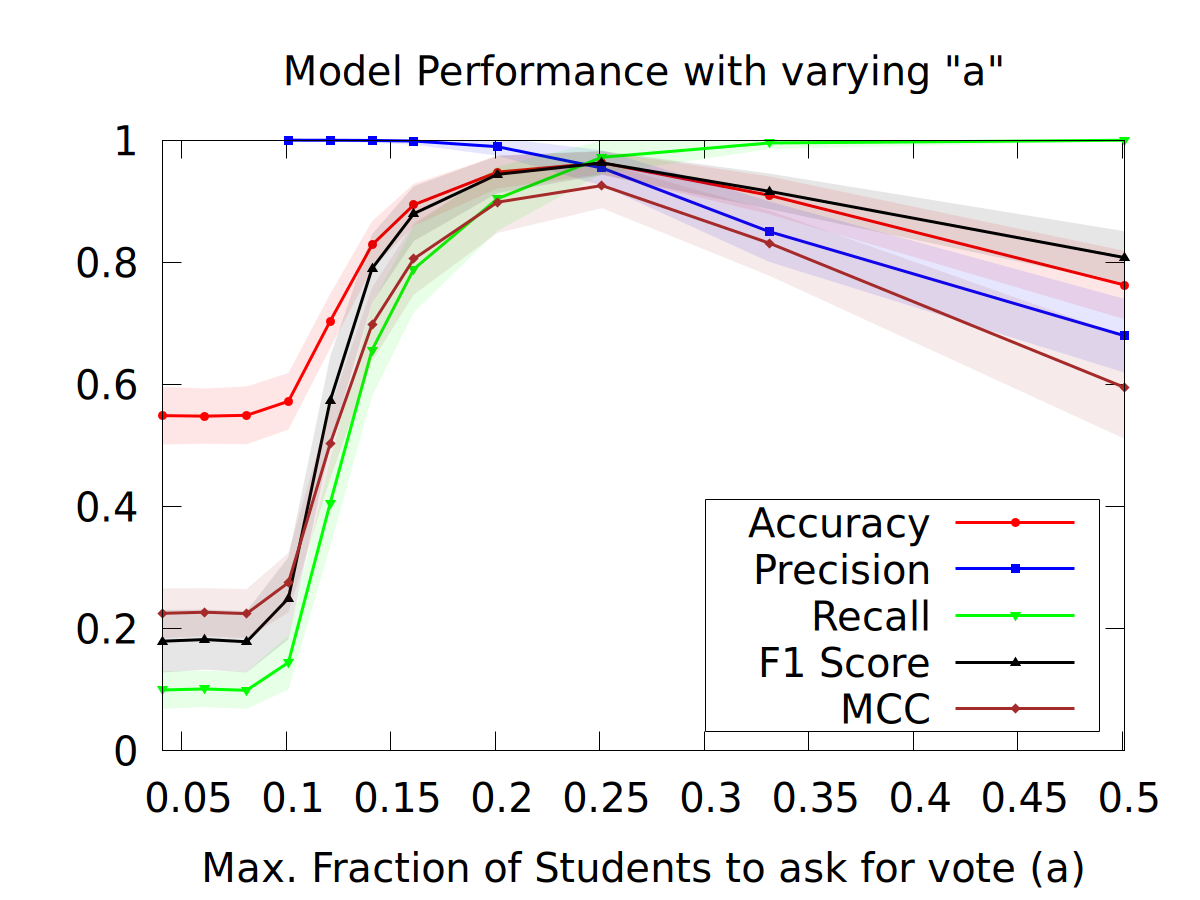
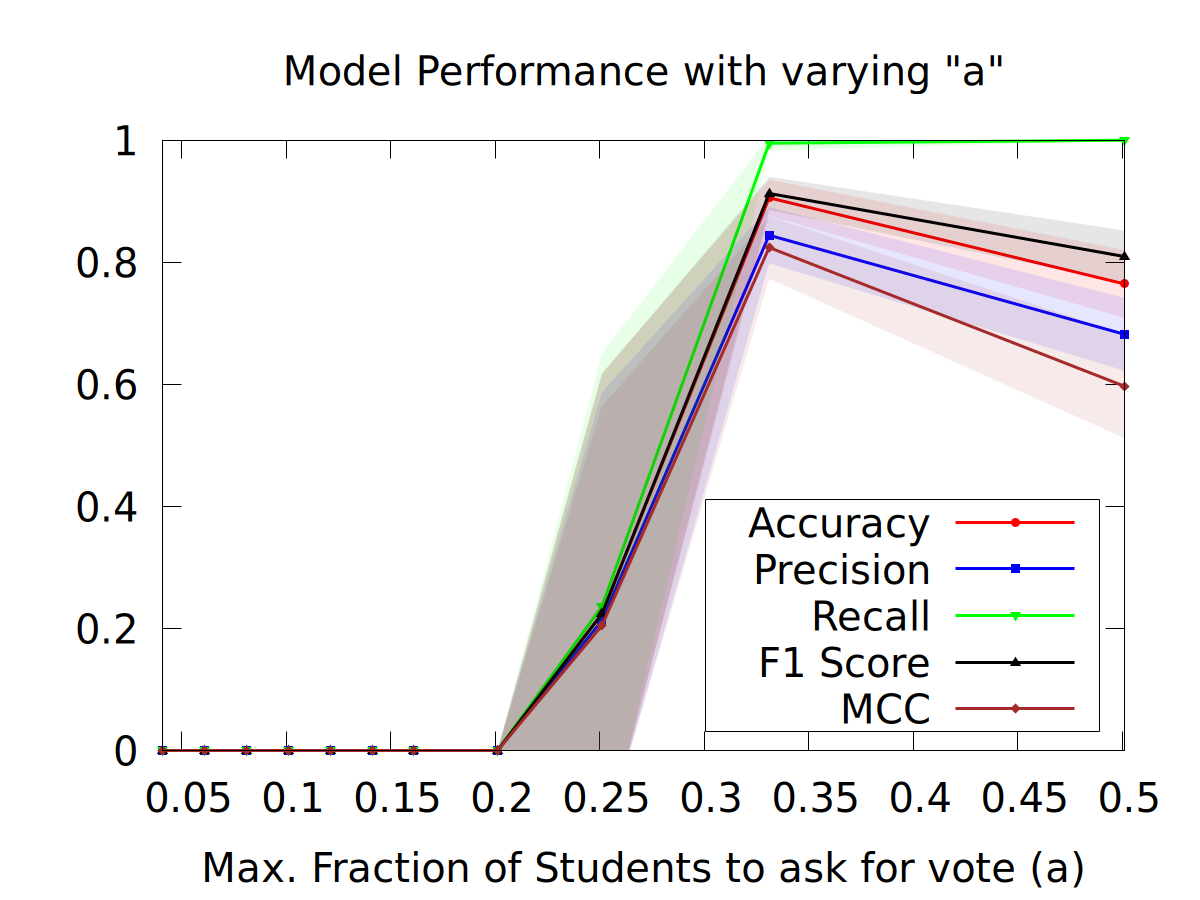
Adding controlled exp results

Changed region(s): [[0.1233, 0.1556, 0.8325, 0.84], [0.8942, 0.3422, 0.925, 0.3733], [0.8942, 0.28, 0.925, 0.3111]]

diff --git a/src/main.cpp b/src/main.cpp
@@ -85,7 +85,7 @@ inline Stats simulate(int n, int m, int k, int a, float p, float q, float r, int
 
     if (defaulters < d * n)
     {
-        std::cout << (float)defaulters / n << std::endl;
+        // std::cout << (float)defaulters / n << std::endl;
         return stats;
     }
     /****************************** Condition Check Finished ******************************/
@@ -150,7 +150,8 @@ inline std::pair<Stats, Stats> experiment(int n, int m, int k, int a, float p, f
         // Stats result = simulate(n, m, k, a, p, q, r, seed, b, d);
 
         Stats result;
-        while (result == 0)
+        int cnt = 0;
+        while (cnt++ < 100 && result == 0)
             result = simulate(n, m, k, a, p, q, r, seed, b, d);
 
         mean += result;
